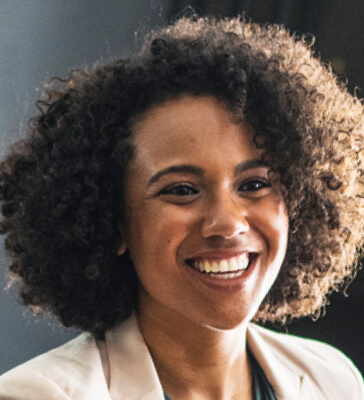
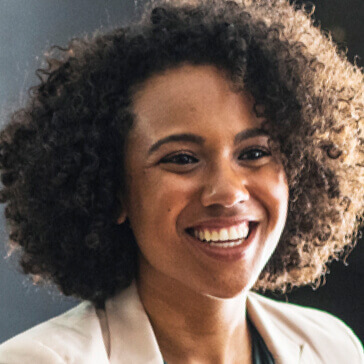
refactor : optimized and reduced images

diff --git a/patterns/contact-6.php b/patterns/contact-6.php
@@ -9,10 +9,10 @@
 $get_url = trailingslashit(get_template_directory_uri());
 
 $images = [
-    $get_url . "assets/image/avatar-circle-2.png",
-    $get_url . "assets/image/avatar-circle-3.png",
-    $get_url . "assets/image/avatar-circle-4.png",
-    $get_url . "assets/image/avatar-circle-5.png",
+    $get_url . "assets/image/avatar-square-1.jpg",
+    $get_url . "assets/image/avatar-square-2.jpg",
+    $get_url . "assets/image/avatar-square-3.jpg",
+    $get_url . "assets/image/avatar-square-4.jpg",
 ];
 
 ?>
